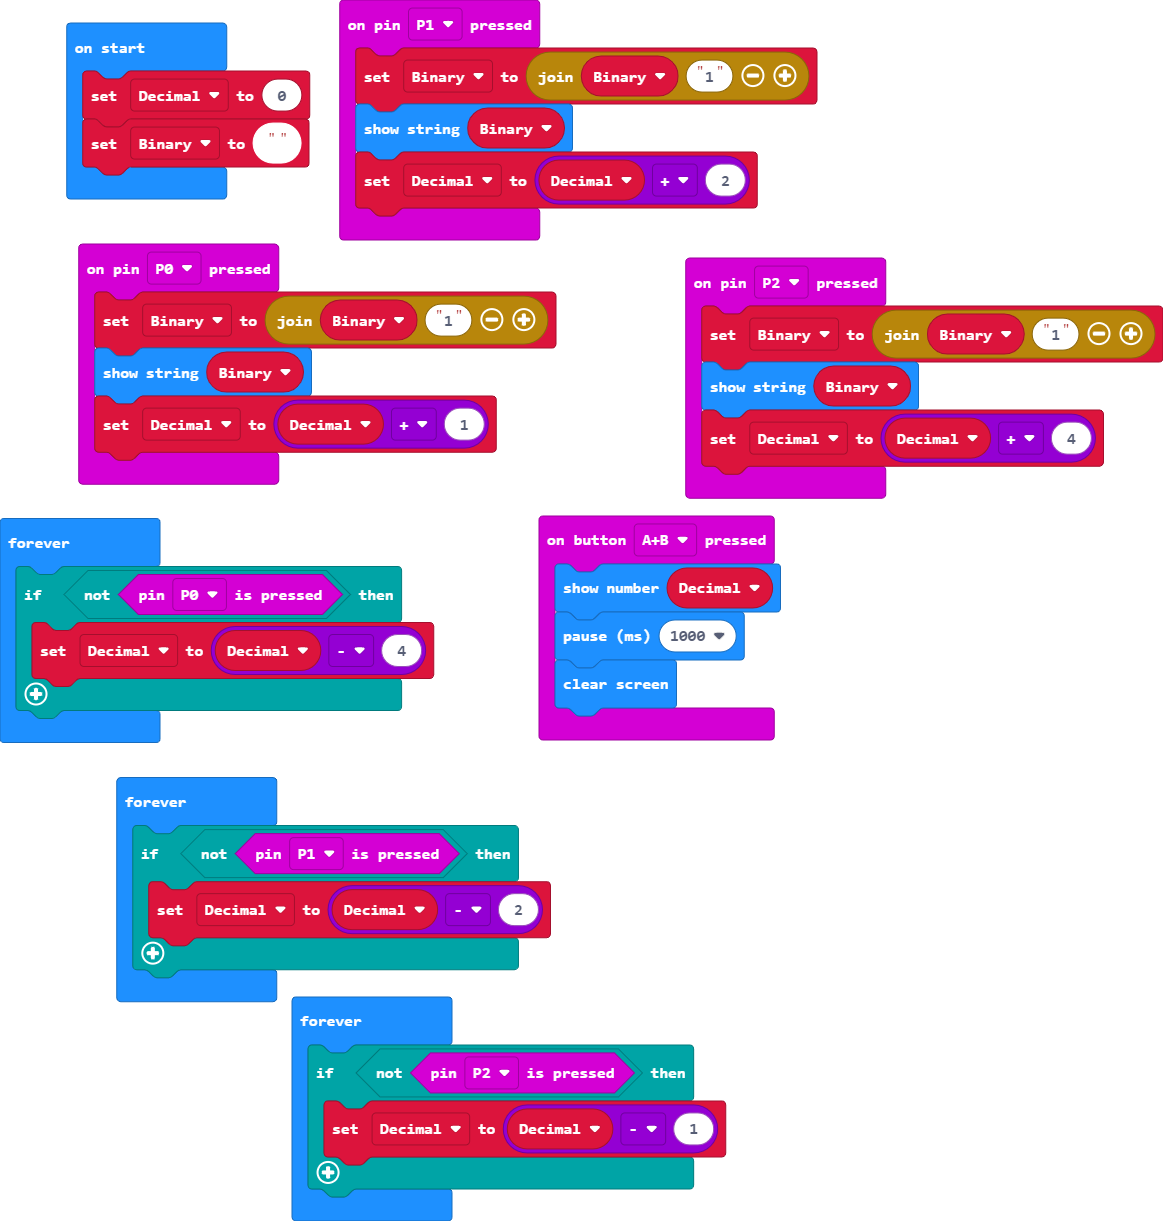
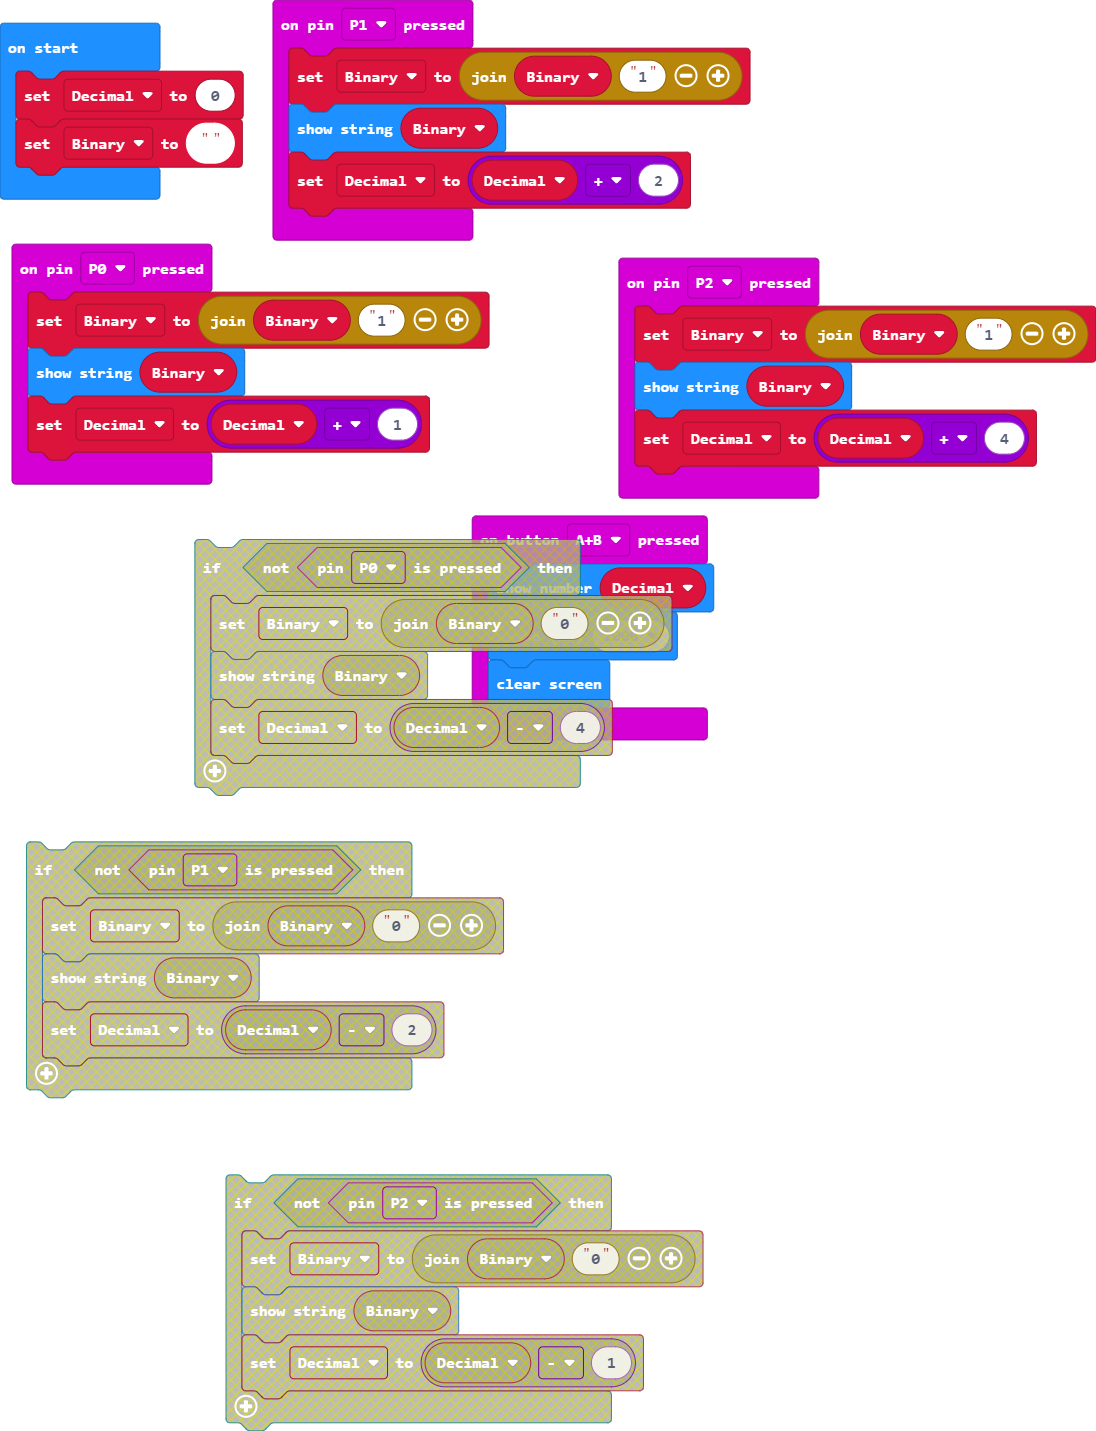
Update main.blocks, main.ts

diff --git a/main.ts b/main.ts
@@ -22,18 +22,3 @@ let Binary = ""
 let Decimal = 0
 Decimal = 0
 Binary = ""
-basic.forever(function () {
-    if (!(input.pinIsPressed(TouchPin.P0))) {
-        Decimal = Decimal - 4
-    }
-})
-basic.forever(function () {
-    if (!(input.pinIsPressed(TouchPin.P1))) {
-        Decimal = Decimal - 2
-    }
-})
-basic.forever(function () {
-    if (!(input.pinIsPressed(TouchPin.P2))) {
-        Decimal = Decimal - 1
-    }
-})
